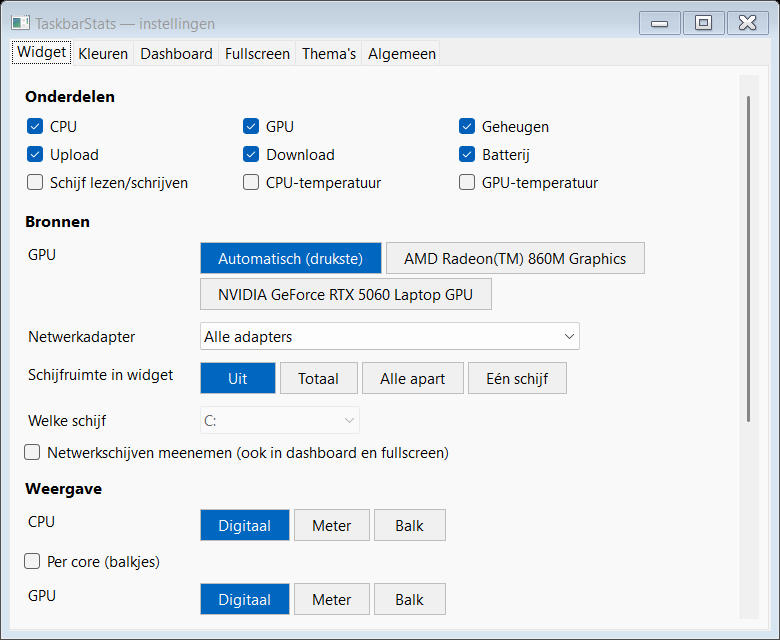
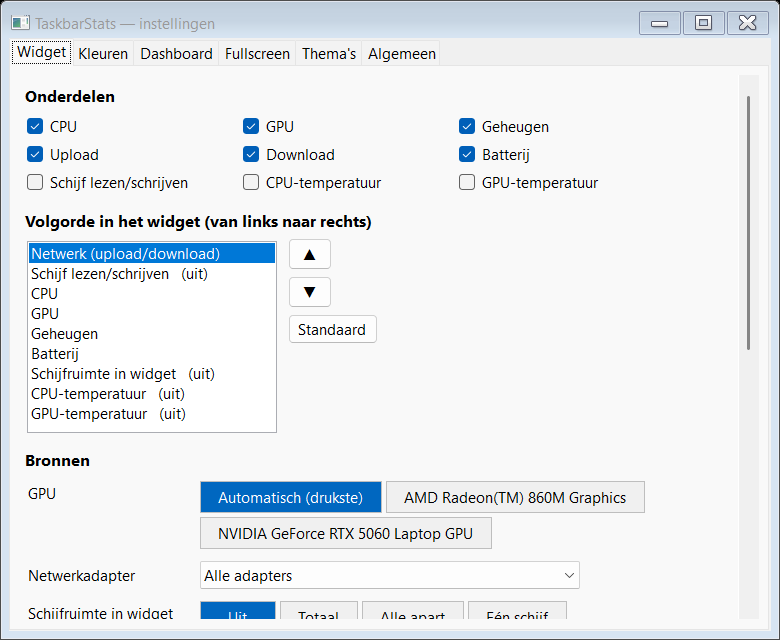
Volgorde van de onderdelen in het taakbalk-widget instelbaar (ook in thema's)

diff --git a/src/WidgetForm.cs b/src/WidgetForm.cs
@@ -736,27 +736,47 @@ public sealed class WidgetForm : Form
 
         int x = _cfg.Compact ? 4 : 6;
         int gap = Gap;
-        if (_cfg.ShowNetUp || _cfg.ShowNetDown) x += DrawNetwork(g, x) + gap;
-        if (_cfg.ShowDisk) x += DrawDisk(g, x) + gap;
-
-        if (_cfg.ShowCpu)
-        {
-            if (_cfg.CpuPerCore) x += DrawCores(g, x, "CPU", _metrics.CpuCores) + gap;
-            else x += DrawMetric(g, x, "CPU", _metrics.CpuPercent, _cfg.CpuStyle) + gap;
-        }
-        if (_cfg.ShowGpu) x += DrawMetric(g, x, "GPU", _metrics.GpuPercent, _cfg.GpuStyle) + gap;
-        if (_cfg.ShowMem) x += DrawMetric(g, x, "MEM", _metrics.MemPercent, _cfg.MemStyle) + gap;
-
-        if (_cfg.ShowBattery && _metrics.BatteryPresent) x += DrawBattery(g, x) + gap;
-
         var textCol = C(_cfg.TextColor, Color.White);
-        foreach (var (label, value, pct) in DiskSpaceCells())
-            x += DrawTextCell(g, x, label, value, "100%", ThresholdColor(pct, textCol)) + gap;
-
-        if (_cfg.ShowCpuTemp && _metrics.CpuTempC is double ct)
-            x += DrawTextCell(g, x, _cfg.LabelsAbove ? "CPU°C" : "CPU", $"{ct:0}°", "100°", ThresholdColor(ct, textCol)) + gap;
-        if (_cfg.ShowGpuTemp && _metrics.GpuTempC is double gt)
-            x += DrawTextCell(g, x, _cfg.LabelsAbove ? "GPU°C" : "GPU", $"{gt:0}°", "100°", ThresholdColor(gt, textCol)) + gap;
+        foreach (var id in Tiles.WidgetOrder(_cfg.WidgetOrder))
+        {
+            switch (id)
+            {
+                case "net":
+                    if (_cfg.ShowNetUp || _cfg.ShowNetDown) x += DrawNetwork(g, x) + gap;
+                    break;
+                case "disk":
+                    if (_cfg.ShowDisk) x += DrawDisk(g, x) + gap;
+                    break;
+                case "cpu":
+                    if (_cfg.ShowCpu)
+                    {
+                        if (_cfg.CpuPerCore) x += DrawCores(g, x, "CPU", _metrics.CpuCores) + gap;
+                        else x += DrawMetric(g, x, "CPU", _metrics.CpuPercent, _cfg.CpuStyle) + gap;
+                    }
+                    break;
+                case "gpu":
+                    if (_cfg.ShowGpu) x += DrawMetric(g, x, "GPU", _metrics.GpuPercent, _cfg.GpuStyle) + gap;
+                    break;
+                case "mem":
+                    if (_cfg.ShowMem) x += DrawMetric(g, x, "MEM", _metrics.MemPercent, _cfg.MemStyle) + gap;
+                    break;
+                case "batt":
+                    if (_cfg.ShowBattery && _metrics.BatteryPresent) x += DrawBattery(g, x) + gap;
+                    break;
+                case "space":
+                    foreach (var (label, value, pct) in DiskSpaceCells())
+                        x += DrawTextCell(g, x, label, value, "100%", ThresholdColor(pct, textCol)) + gap;
+                    break;
+                case "cputemp":
+                    if (_cfg.ShowCpuTemp && _metrics.CpuTempC is double ct)
+                        x += DrawTextCell(g, x, _cfg.LabelsAbove ? "CPU°C" : "CPU", $"{ct:0}°", "100°", ThresholdColor(ct, textCol)) + gap;
+                    break;
+                case "gputemp":
+                    if (_cfg.ShowGpuTemp && _metrics.GpuTempC is double gt)
+                        x += DrawTextCell(g, x, _cfg.LabelsAbove ? "GPU°C" : "GPU", $"{gt:0}°", "100°", ThresholdColor(gt, textCol)) + gap;
+                    break;
+            }
+        }
         return x;
     }
 

diff --git a/src/SettingsForm.cs b/src/SettingsForm.cs
@@ -232,6 +232,63 @@ public sealed class SettingsForm : Form
         return Row(label, host);
     }
 
+    private bool WidgetItemOn(string id) => id switch
+    {
+        "net" => _c.ShowNetUp || _c.ShowNetDown,
+        "disk" => _c.ShowDisk,
+        "cpu" => _c.ShowCpu,
+        "gpu" => _c.ShowGpu,
+        "mem" => _c.ShowMem,
+        "batt" => _c.ShowBattery,
+        "space" => _c.DiskSpace != DiskSpaceMode.Off,
+        "cputemp" => _c.ShowCpuTemp,
+        "gputemp" => _c.ShowGpuTemp,
+        _ => true,
+    };
+
+    /// <summary>Volgorde van de onderdelen in het taakbalk-widget; onderdelen die uit staan krijgen "(uit)" erachter.</summary>
+    private Control WidgetOrderEditor()
+    {
+        var host = new FlowLayoutPanel { AutoSize = true, WrapContents = false };
+        var list = new ListBox { Width = 250, Height = 192, IntegralHeight = false };
+        var order = Tiles.WidgetOrder(_c.WidgetOrder);
+        void fill()
+        {
+            int sel = list.SelectedIndex;
+            bool was = _building;
+            _building = true;
+            list.Items.Clear();
+            foreach (var id in order) list.Items.Add(Tiles.WidgetName(id) + (WidgetItemOn(id) ? "" : "   " + Loc.Pick("(uit)", "(off)")));
+            if (list.Items.Count > 0) list.SelectedIndex = Math.Clamp(sel, 0, list.Items.Count - 1);
+            _building = was;
+        }
+        fill();
+        Dep(fill);   // ververst de "(uit)"-markering als de vinkjes veranderen
+        void move(int d)
+        {
+            int i = list.SelectedIndex, j = i + d;
+            if (i < 0 || j < 0 || j >= order.Count) return;
+            (order[i], order[j]) = (order[j], order[i]);
+            _c.WidgetOrder = new List<string>(order);
+            list.SelectedIndex = j;
+            Changed();
+            list.SelectedIndex = j;
+        }
+        var left = new Button { Text = "▲", Width = 44, Height = 32, Margin = new Padding(0, 0, 0, 6) };
+        var right = new Button { Text = "▼", Width = 44, Height = 32, Margin = new Padding(0, 0, 0, 6) };
+        left.Click += (_, _) => move(-1);
+        right.Click += (_, _) => move(1);
+        var reset = Btn(Loc.Pick("Standaard", "Default"), 90);
+        reset.Click += (_, _) => { order = Tiles.WidgetOrder(null); _c.WidgetOrder = null; Changed(); };
+        var buttons = new FlowLayoutPanel { FlowDirection = FlowDirection.TopDown, AutoSize = true, WrapContents = false, Margin = new Padding(8, 0, 0, 0) };
+        buttons.Controls.Add(left);
+        buttons.Controls.Add(right);
+        buttons.Controls.Add(reset);
+        host.Controls.Add(list);
+        host.Controls.Add(buttons);
+        return host;
+    }
+
     // ---------- tabblad Algemeen ----------
     private TabPage GeneralTab()
     {
@@ -308,6 +365,9 @@ public sealed class SettingsForm : Form
             Check(Loc.S("diskIo"), _c.ShowDisk, v => _c.ShowDisk = v, ColW),
             Check(Loc.S("cpuTemp"), _c.ShowCpuTemp, v => _c.ShowCpuTemp = v, ColW),
             Check(Loc.S("gpuTemp"), _c.ShowGpuTemp, v => _c.ShowGpuTemp = v, ColW)));
+
+        p.Controls.Add(Head(Loc.Pick("Volgorde in het widget (van links naar rechts)", "Order in the widget (left to right)")));
+        p.Controls.Add(WidgetOrderEditor());
 
         // Bronnen: welke GPU, netwerkadapter en schijven het widget toont (hoort bij de vinkjes hierboven).
         p.Controls.Add(Head(Loc.Pick("Bronnen", "Sources")));

diff --git a/src/Themes.cs b/src/Themes.cs
@@ -47,6 +47,7 @@ public sealed class ThemeData
     public int DashScale { get; set; } = 100;
     public int DashColumns { get; set; } = 2;
     public bool DashFront { get; set; }
+    public List<string>? WidgetOrder { get; set; }
     public List<string>? DashOrder { get; set; }
     public List<string>? DashHidden { get; set; }
     public List<string>? FullOrder { get; set; }
@@ -66,6 +67,7 @@ public sealed class ThemeData
             TextColor = c.TextColor, BackgroundColor = c.BackgroundColor, AccentColor = c.AccentColor, WarnColor = c.WarnColor,
             CritColor = c.CritColor, BorderColor = c.BorderColor, WarnThreshold = c.WarnThreshold, CritThreshold = c.CritThreshold,
             DashOpacity = c.DashOpacity, DashScale = c.DashScale, DashColumns = c.DashColumns, DashFront = c.DashFront,
+            WidgetOrder = c.WidgetOrder is null ? null : new List<string>(c.WidgetOrder),
             DashOrder = c.DashOrder is null ? null : new List<string>(c.DashOrder),
             DashHidden = hidden.Count > 0 ? hidden : null,
             FullOrder = c.FullOrder is null ? null : new List<string>(c.FullOrder),
@@ -90,6 +92,7 @@ public sealed class ThemeData
         c.DashScale = Math.Clamp(DashScale, 30, 400);
         c.DashColumns = Math.Clamp(DashColumns, 1, 4);
         c.DashFront = DashFront;
+        c.WidgetOrder = WidgetOrder is null ? null : Tiles.WidgetOrder(WidgetOrder);
         c.DashOrder = DashOrder is null ? null : Tiles.Order(DashOrder);
         foreach (var id in Tiles.All) Tiles.SetDashOn(c, id, !(DashHidden?.Contains(id) ?? false));
         c.FullOrder = FullOrder is null ? null : Tiles.Order(FullOrder);

diff --git a/src/Tiles.cs b/src/Tiles.cs
@@ -18,6 +18,31 @@ public static class Tiles
         _ => id,
     };
 
+    /// <summary>Onderdelen van het taakbalk-widget in de standaardvolgorde (net = upload/download, space = schijfruimte).</summary>
+    public static readonly string[] WidgetAll = { "net", "disk", "cpu", "gpu", "mem", "batt", "space", "cputemp", "gputemp" };
+
+    public static string WidgetName(string id) => id switch
+    {
+        "net" => Loc.Pick("Netwerk (upload/download)", "Network (upload/download)"),
+        "disk" => Loc.S("diskIo"),
+        "cpu" => "CPU",
+        "gpu" => "GPU",
+        "mem" => Loc.S("memory"),
+        "batt" => Loc.Pick("Batterij", "Battery"),
+        "space" => Loc.S("diskSpace"),
+        "cputemp" => Loc.S("cpuTemp"),
+        "gputemp" => Loc.S("gpuTemp"),
+        _ => id,
+    };
+
+    public static List<string> WidgetOrder(List<string>? saved)
+    {
+        var res = new List<string>();
+        foreach (var id in saved ?? new()) if (WidgetAll.Contains(id) && !res.Contains(id)) res.Add(id);
+        foreach (var id in WidgetAll) if (!res.Contains(id)) res.Add(id);
+        return res;
+    }
+
     /// <summary>Opgeslagen volgorde, aangevuld met ontbrekende en ontdaan van onbekende/dubbele ids.</summary>
     public static List<string> Order(List<string>? saved)
     {

diff --git a/src/AppSettings.cs b/src/AppSettings.cs
@@ -68,6 +68,9 @@ public sealed class AppSettings
     public bool DashProcs { get; set; } = true;
     public bool DashSystem { get; set; } = true;
 
+    // Volgorde van de onderdelen in het taakbalk-widget (ids uit Tiles.WidgetAll)
+    public List<string>? WidgetOrder { get; set; } = null;
+
     // Volgorde van de hoofdonderdelen (ids uit Tiles.All); ontbrekende ids worden achteraan toegevoegd.
     public List<string>? DashOrder { get; set; } = null;
     public List<string>? FullOrder { get; set; } = null;

diff --git a/README.md b/README.md
@@ -127,6 +127,7 @@ bij loslaten bewaard); de instellingen (tab Algemeen) hebben "Reset positie".
   - *Widget*: onderdelen (CPU, GPU, geheugen, up-/download, batterij, schijf, temperaturen) met hun **bronnen** (welke GPU of automatisch, welke
     netwerkadapter of alle, schijfruimte uit/totaal/alle apart/één schijf, netwerkschijven meenemen), weergave per onderdeel (digitaal, meter of balk;
     CPU per core), batterijpercentage, labels boven, compact, transparant, hoogte, lettertype/-grootte en ververssnelheid.
+    De **volgorde van de onderdelen in het widget** (netwerk, schijf-I/O, CPU, GPU, geheugen, batterij, schijfruimte, temperaturen) stel je in met de pijlknoppen; uitgeschakelde onderdelen staan er met "(uit)" bij. De volgorde zit ook in thema's.
   - *Kleuren*: tekst, achtergrond, meter/balk, waarschuwing, kritiek, rand en drempels (bv. 85% / 95%).
   - *Dashboard*: tonen, voor-/achtergrond, klik-door, vergrendelen, doorzichtigheid, schaal, kolommen, en **volgorde en aan/uit per hoofdonderdeel**.
   - *Fullscreen*: welk scherm, en volgorde en aan/uit per hoofdonderdeel, met een voorbeeld van de indeling.
